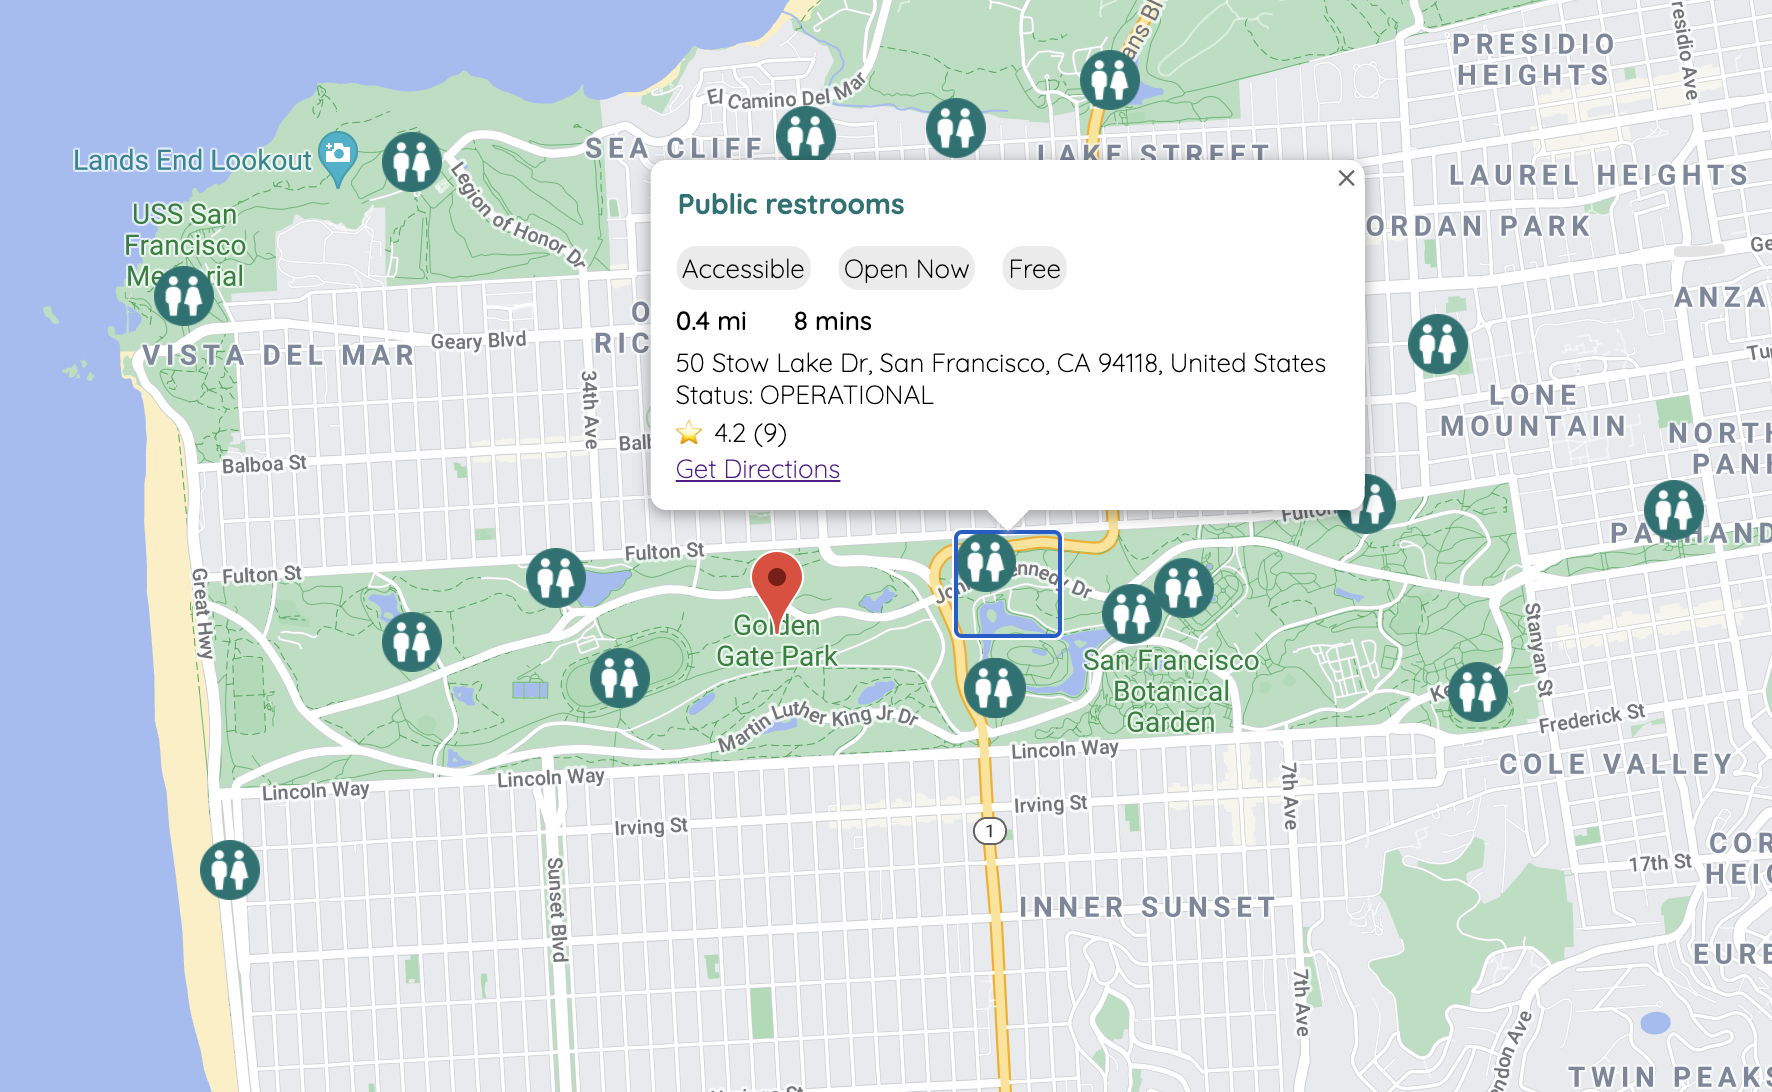
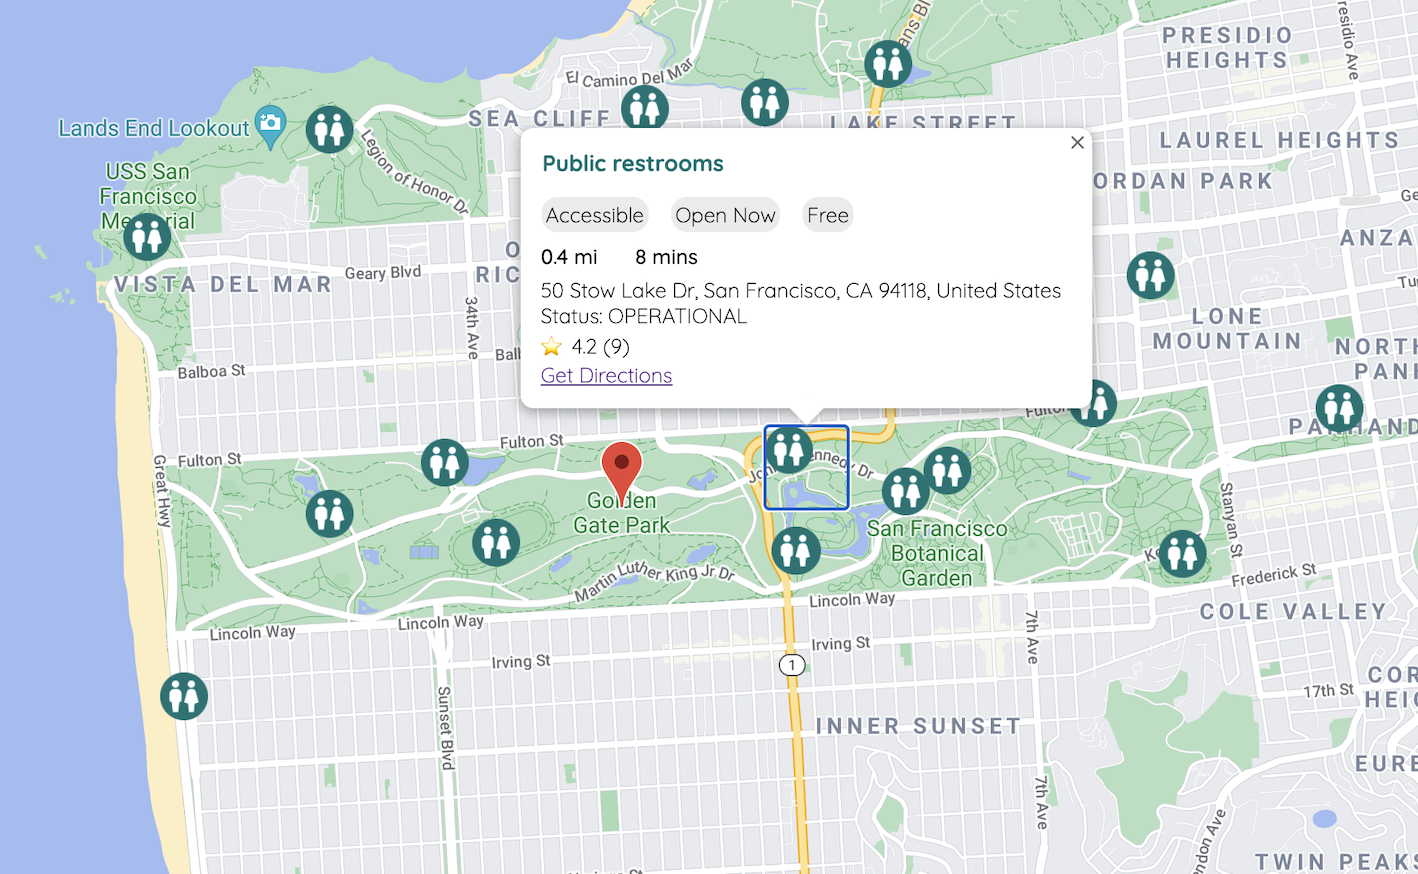
reduce screenshot sizes

diff --git a/README.md b/README.md
@@ -12,7 +12,7 @@ PitStop, a free water and toilet finder, will instantly show you all free and av
 
 **Created By <a href="https://github.com/chiakat">Katherine Yu</a>**
 
-<br />
+<p align="right">(<a href="#top">back to top</a>)</p>
 
 <!-- ABOUT THE PROJECT -->
 ## About The Project
@@ -80,7 +80,7 @@ PitStop is an MVP created during a 2-day solo sprint. I was challenged with idea
 
 <p align="right">(<a href="#top">back to top</a>)</p>
 
-## Building and running on localhost
+## Getting Started
 First install dependencies:
 npm install
 
